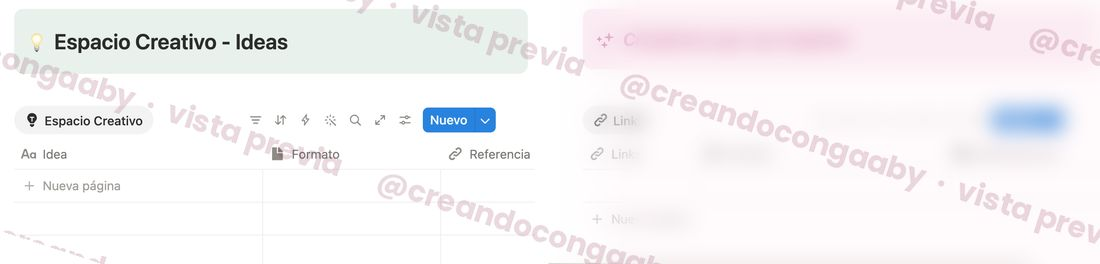
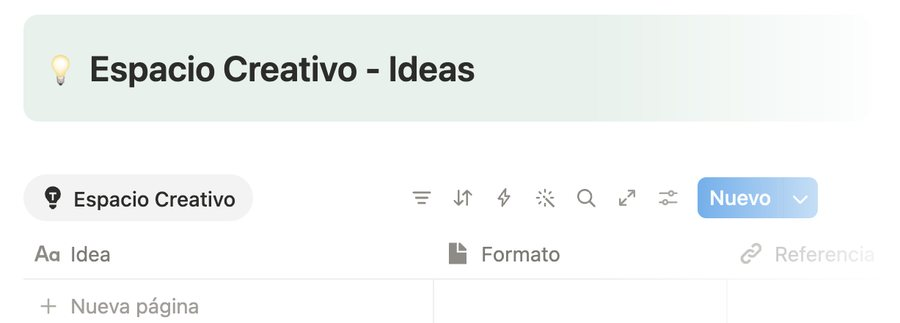
Plantilla: portada completa y fragmentos limpios en vez de difuminado
Claude-Session: https://claude.ai/code/session_01UYwE8mnXEk4msTXBbULvfE

diff --git a/plantilla-notion-contenido/index.html b/plantilla-notion-contenido/index.html
@@ -310,7 +310,7 @@ footer{background:var(--vino);color:var(--crema);padding:72px 0 36px}
 .parte p{margin:0;font-size:15px}
 .bloques{display:grid;gap:28px}
 .bloque{display:grid;grid-template-columns:minmax(0,1.2fr) minmax(0,1fr);gap:32px;align-items:center;background:var(--papel);border-radius:22px;padding:24px}
-.bloque img{width:100%;height:auto;border-radius:12px;box-shadow:0 10px 24px rgba(117,5,47,.12)}
+.bloque img{width:100%;height:auto;background:#fff;border-radius:12px;box-shadow:0 10px 24px rgba(117,5,47,.12)}
 .bloque h3{font-size:28px;margin-bottom:6px}.bloque p{margin:0 0 6px}
 @media (max-width:900px){.bloque{grid-template-columns:1fr;gap:18px;padding:18px}}
 .vistas figure{margin:0}.vistas img{border-radius:14px;width:100%;aspect-ratio:16/9;object-fit:cover;object-position:top left;box-shadow:0 12px 28px rgba(117,5,47,.14)}
@@ -374,7 +374,7 @@ footer{background:var(--vino);color:var(--crema);padding:72px 0 36px}
       <p class="compra__nota">Pago seguro con Bold. Te llega al correo apenas pagas.</p>
     </div>
     <div class="pl-hero__img">
-      <img src="/img/plantilla-espacio.jpg" alt="Plantilla de Notion Planificación de contenido con metas, links importantes, archivos y playlist de Spotify" width="1100" height="775">
+      <img src="/img/plantilla-espacio.jpg" alt="Plantilla de Notion Planificación de contenido con metas, links importantes, archivos y playlist de Spotify" width="1400" height="986">
       <span class="mano">una probadita de lo que trae</span>
     </div>
   </div>
@@ -386,22 +386,22 @@ footer{background:var(--vino);color:var(--crema);padding:72px 0 36px}
     <h2 style="margin-top:8px">Todo tu contenido en un solo <span class="brillo">espacio</span></h2>
     <div class="bloques">
       <article class="bloque">
-        <img src="/img/plantilla-espacio.jpg" alt="Espacio de marca en Notion con metas a corto, mediano y largo plazo, archivos, links importantes y playlist de Spotify" width="1100" height="775" loading="lazy">
+        <img src="/img/plantilla-espacio.jpg" alt="Espacio de marca en Notion con metas a corto, mediano y largo plazo, archivos, links importantes y playlist de Spotify" width="1400" height="986" loading="lazy">
         <div><h3>El espacio de tu marca</h3><p>Lo que necesitas tener a mano, en una sola página.</p>
         <ul class="incluye"><li>Metas a corto, mediano y largo plazo</li><li>Archivos: guía para usar el espacio, contrato, control de pagos y métricas</li><li>Links importantes: brief, Drive, redes sociales y marca</li><li>Botones para crear una tarea o una idea nueva en un clic</li><li>Tu playlist de Spotify para trabajar con música</li></ul></div>
       </article>
       <article class="bloque">
-        <img src="/img/plantilla-calendario.jpg" alt="Calendario de contenido en Notion con pilares de contenido y la vista del feed de Instagram" width="1100" height="827" loading="lazy">
+        <img src="/img/plantilla-calendario.jpg" alt="Calendario de contenido en Notion con pilares de contenido y la vista del feed de Instagram" width="1100" height="273" loading="lazy">
         <div><h3>Calendario de contenido</h3><p>Sabes qué publicas cada día y cómo se va a ver tu perfil.</p>
         <ul class="incluye"><li>Vistas de planificación, Instagram e historias</li><li>Pilares de contenido: branding, engagement y venta</li><li>Vista de tu feed de Instagram para cuidar la coherencia de tu perfil</li></ul></div>
       </article>
       <article class="bloque">
-        <img src="/img/plantilla-equipo.jpg" alt="Tablero en Notion con columnas de reuniones, tareas, contenido y pagos" width="1100" height="281" loading="lazy">
+        <img src="/img/plantilla-equipo.jpg" alt="Tablero en Notion con columnas de reuniones, tareas, contenido y pagos" width="1000" height="367" loading="lazy">
         <div><h3>Contenido de marca</h3><p>Todo lo que pasa alrededor de tu contenido, organizado por semana.</p>
         <ul class="incluye"><li>Calendario de reuniones, tareas y métricas</li><li>Tablero con reuniones, tareas, contenido y pagos</li></ul></div>
       </article>
       <article class="bloque">
-        <img src="/img/plantilla-ideas.jpg" alt="Espacio creativo de ideas y lista de creadores que inspiran en Notion" width="1100" height="264" loading="lazy">
+        <img src="/img/plantilla-ideas.jpg" alt="Espacio creativo de ideas y lista de creadores que inspiran en Notion" width="900" height="323" loading="lazy">
         <div><h3>Espacio creativo</h3><p>Para que ninguna idea se te pierda.</p>
         <ul class="incluye"><li>Banco de ideas con formato y referencia</li><li>Lista de creadores que te inspiran</li></ul></div>
       </article>
